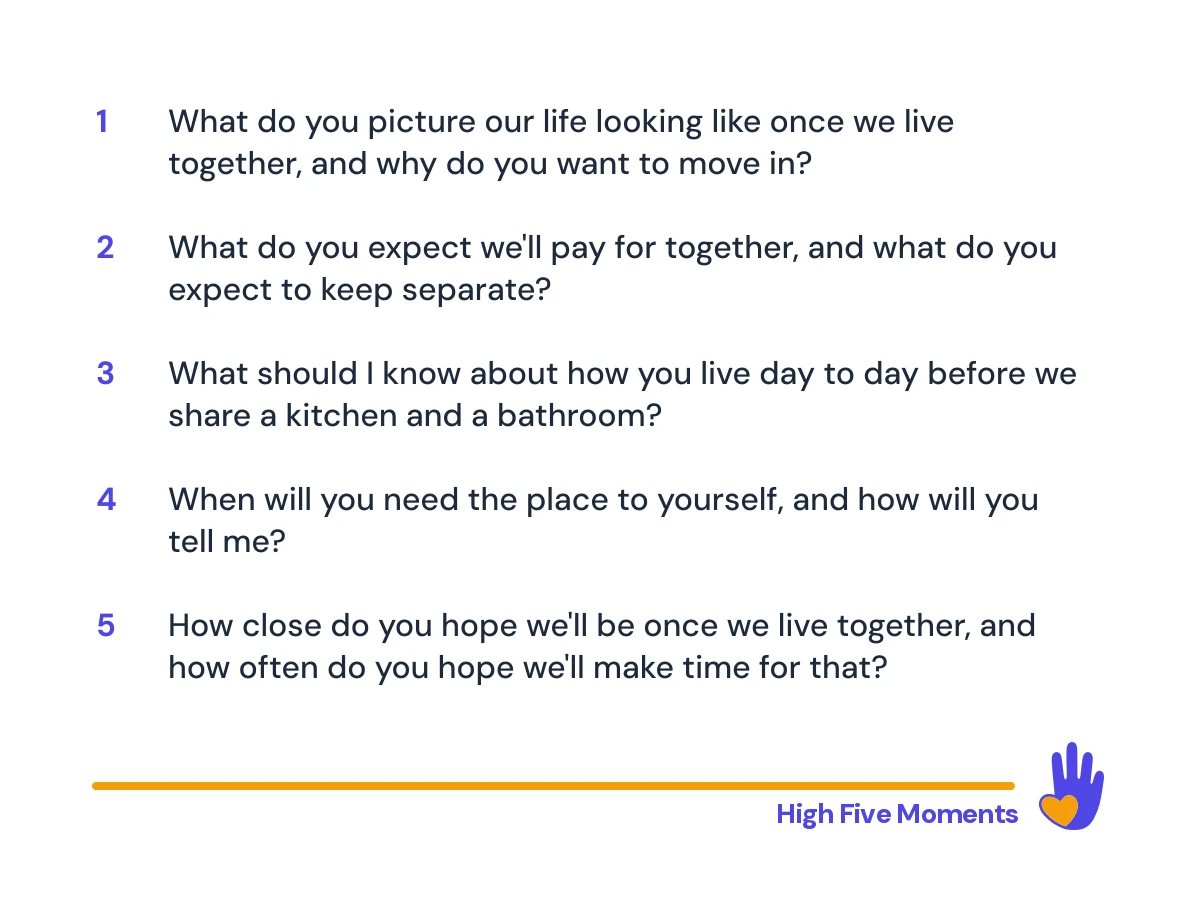
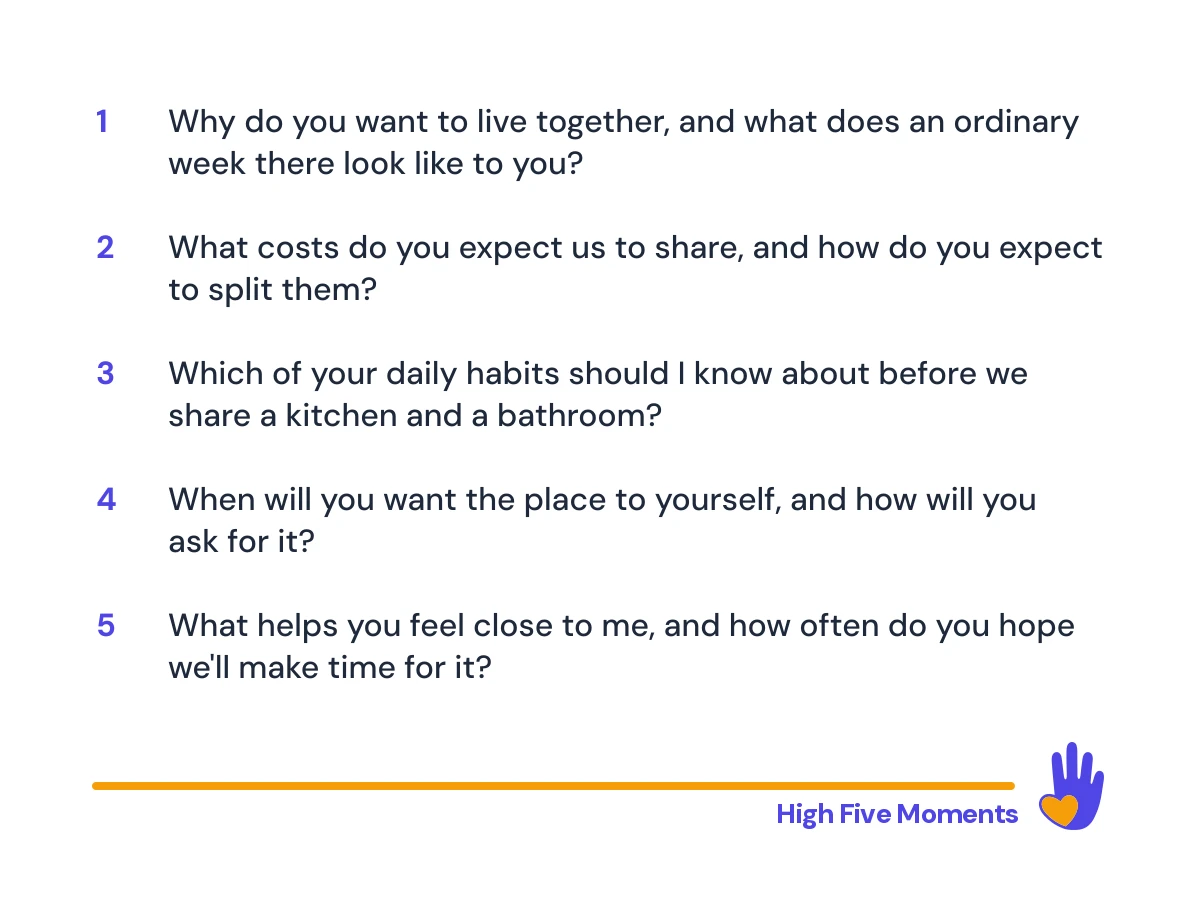
Refine moving-in-together blog article

diff --git a/src/lib/articles.ts b/src/lib/articles.ts
@@ -1,5 +1,6 @@
 import "server-only";
 
+import { createHash } from "node:crypto";
 import fs from "node:fs";
 import path from "node:path";
 import { cache } from "react";
@@ -165,6 +166,12 @@ function loadArticle(fileName: string): LoadedArticle {
 
   assertBodyImages(slug, parsed.content);
 
+  // A changed source image needs a new URL for cached responsive variants.
+  const heroVersion = createHash("sha256")
+    .update(fs.readFileSync(path.join(process.cwd(), "public", data.hero.src)))
+    .digest("hex")
+    .slice(0, 16);
+
   return {
     published: true,
     article: {
@@ -176,7 +183,7 @@ function loadArticle(fileName: string): LoadedArticle {
       updatedAt: data.updatedAt,
       payoffList: data.payoffList ?? false,
       hero: {
-        src: data.hero.src,
+        src: `${data.hero.src}?v=${heroVersion}`,
         alt: data.hero.alt,
         width: heroSize.width,
         height: heroSize.height,

diff --git a/src/app/blog/page.tsx b/src/app/blog/page.tsx
@@ -109,6 +109,7 @@ export default function BlogIndexPage() {
                         alt={article.hero.alt}
                         width={article.hero.width}
                         height={article.hero.height}
+                        unoptimized
                         sizes="(min-width: 768px) 288px, 100vw"
                         className="aspect-video w-full rounded-2xl object-cover"
                       />

diff --git a/src/app/blog/[slug]/page.tsx b/src/app/blog/[slug]/page.tsx
@@ -172,6 +172,7 @@ export default async function ArticlePage({ params }: ArticlePageProps) {
             width={article.hero.width}
             height={article.hero.height}
             priority
+            unoptimized
             sizes="(min-width: 768px) 768px, 100vw"
             className="mt-8 h-auto w-full rounded-2xl"
           />

diff --git a/content/articles/questions-to-ask-before-moving-in-together.md b/content/articles/questions-to-ask-before-moving-in-together.md
@@ -11,64 +11,66 @@ hero:
   alt: A couple talking through questions to ask before moving in together on the floor of a bright empty apartment.
 ---
 
-These are questions to ask before moving in together, about the life you're starting: money, daily habits, time alone, and what each of you expects from sharing a home. Both of you answer every question, and you stop when the questions are done. The moving in together advice that's easy to find already says to talk about money, daily habits, and time alone before you share a home. This page turns that into one conversation the two of you can finish, including what each of you expects that home to be.
+Before moving in together, talk about the life you each imagine sharing. These five questions cover what you want from the move, how you expect to share costs, and the habits and space that make a home comfortable for each of you. They also give you a chance to talk about what helps you feel close.
 
 ## What is this conversation for?
 
-This conversation is for the time just before you share a home, or the first days after, when you talk about the life you're starting together. You may each have a way of ending the day, and an idea of what home feels like, that the other person hasn't lived with yet. Everyday life is about to show where you expected different things. Say what you each expect now, while it's still easy.
+It's for saying out loud what each of you expects from sharing a home, so you hear it from each other instead of guessing. Most of those expectations have never needed words. When you lived apart, it didn't matter whether Sunday was for resting or for seeing family, or whether dishes left in the sink overnight bothered anyone. Under one roof, those things come up in ordinary moments, often when one of you is tired.
 
-In the 2020 Census, [about 8% of the U.S. household population, 26 million people, lived in cohabiting-couple households](https://www.census.gov/library/stories/2024/09/sdhc-coupled-households.html). The Census counts these separately from married-couple households: a partner sharing the home, rather than a spouse. That number describes who shares a home. It doesn't say what any couple should do, and it says nothing about how good those relationships are.
+Talking first won't stop every disagreement, and you'll still find things neither of you thought to mention. It gives you a starting point. When something comes up later, you can say "remember when we talked about evenings?" and pick it up as a topic you've already shared, instead of meeting it for the first time in the middle of a tense moment.
 
-## What should you ask before you move in?
+If you're the one who wants to start the conversation, you don't need to arrive with answers. Bringing the questions is enough.
 
-Start with what you each expect, then money, daily habits, and time alone, and end with closeness.
+## What should you ask each other?
+
+Start with the life you each imagine, and reword the questions so they sound like the two of you.
 
 ![The five questions to ask before moving in together, printed on a card.](/blog/questions-to-ask-before-moving-in-together/check-in-questions.webp)
 
-1. ### What do you picture our life looking like once we live together, and why do you want to move in?
+1. ### Why do you want to live together, and what does an ordinary week there look like to you?
 
-   Start with the picture each of you has in your head. One of you might imagine quiet evenings at home, and the other might imagine a place where friends come over often. Ask each other why you want to move in, and listen to the whole answer.
+   Your reasons shape a lot of small decisions. If one of you is moving in mostly to save on rent and the other sees it as the start of a shared future, a question like "should we buy a proper sofa?" means something different to each of you. Practical reasons are a normal part of the decision, so say them along with the romantic ones.
 
-   People give many reasons. A 2019 [Pew Research Center survey](https://www.pewresearch.org/social-trends/2019/11/06/marriage-and-cohabitation-in-the-u-s/) found that most married adults and adults living with a partner named love and companionship as major reasons for that decision. Among adults living with an unmarried partner, 38% said moving in made sense financially, 37% said it was convenient, and 23% said wanting to test the relationship was a major reason. These are reasons people gave, and they don't show what happened to the relationship later. Your own reasons may be a mix, and it helps to say all of them out loud, including the practical ones.
+   Then describe a normal week. One of you might picture quiet weeknights at home, and the other might picture friends over for dinner most Fridays. If one of you is moving into the other's current place, talk about how it can start to feel like home for both of you, like clearing real space in the closet or choosing something for the walls together.
 
-2. ### What do you expect we'll pay for together, and what do you expect to keep separate?
+2. ### What costs do you expect us to share, and how do you expect to split them?
 
-   One of you may assume rent and groceries get split equally, and the other may expect the person who earns more to pay a larger share. One of you might expect the household money to be shared, while the other wants to keep everything separate. Say what you expect, and say why.
+   One of you may assume rent and groceries get split equally, and the other may expect the person who earns more to pay a larger share. One of you might picture a shared pot for household costs, while the other wants to keep money mostly separate. Say what you expect and why. A wish to keep money separate might come from wanting independence or from something that happened before, and knowing which helps you both understand the answer.
 
-   You don't need to agree on numbers or set anything up tonight. Hearing each other's expectations is the point, so a bill doesn't reveal them for the first time.
+   You don't need to settle numbers in this conversation. Working them out is easier once you know what each of you expects, and hearing it now means the first shared bill isn't where you discover you had different ideas.
 
-3. ### What should I know about how you live day to day before we share a kitchen and a bathroom?
+3. ### Which of your daily habits should I know about before we share a kitchen and a bathroom?
 
-   Small habits feel bigger once you share a kitchen and a bathroom. Tell each other when you usually go to sleep and wake up, whether you like to watch something before bed, and how you feel about an alarm that goes off more than once. Talk about noise, like music while you cook, calls on speaker, or a TV playing in the background. Talk about guests, like how much notice you'd like before a friend stays the night.
+   You'll meet each other's routines many times a day, so it helps to know them and the reasons behind them. Talk about when you usually sleep and wake up, whether you set more than one alarm, and whether you like to watch something before bed. Talk about noise, like music while you cook or calls on speaker. Talk about guests, like how much notice you'd like before a friend stays over.
 
-   Then talk about what "tidy" means to each of you. For one person it's a clear counter and no dishes in the sink overnight. For the other it's a home that looks fine by the weekend. Neither is wrong. Saying it now means a pile of mail by the door is a habit you already know about, not a surprise later.
+   Then say what "tidy" means to you. For one person it's a clear counter and no dishes left overnight. For the other it's a place that looks fine by the weekend. Once you know what your partner prefers, a pile of mail by the door is something you can talk about, instead of assuming it means they don't care.
 
-4. ### When will you need the place to yourself, and how will you tell me?
+4. ### When will you want the place to yourself, and how will you ask for it?
 
-   Even people who love each other's company need time with the home to themselves. One of you might need the first hour after work to be quiet. The other might want a Saturday morning alone now and then. Say when you think you'll need that time, and agree on a simple way to ask for it.
+   Wanting time alone at home is normal, even when you love being together. In a shared home it's easy to misread. A closed door or a quiet evening can look like being upset when your partner just needs a rest from company. One of you might need the first hour after work to be quiet, and the other might want a Saturday morning alone now and then. Say when you think you'll need it.
 
-   It can be as plain as "I need an hour on my own tonight." When you've agreed on the words ahead of time, asking doesn't sound like a complaint, and hearing it doesn't feel like being pushed away.
+   Then agree on the words. Something as plain as "I need an hour on my own tonight" works. Agreeing on how to ask can make it easier to give each other space without guessing what it means.
 
-5. ### How close do you hope we'll be once we live together, and how often do you hope we'll make time for that?
+5. ### What helps you feel close to me, and how often do you hope we'll make time for it?
 
-   Closeness can mean sex, and it can also mean sitting together on the couch, going to bed at the same time, or a hug in the kitchen before work. Share what you hope for, and listen to what your partner hopes for too. This answer is a way to know each other better, and it isn't a score or a rule. Your hopes can change after you move in, and that's fine.
+   Living together can change how closeness happens. Seeing each other every day can feel close to one of you, while the other starts to miss evenings that were planned and felt special. Closeness can mean sex, and it can also mean going to bed at the same time, sitting together on the couch, or a hug in the kitchen before work. Share what you hope for, including how often, and listen to your partner's answer as a way to know them better. Hopes like these can change after you move in, so this is a good one to come back to.
 
-These five are a starting point, and you can reword them so they sound like the two of you. Tips for couples moving in together often run much longer, and this list is meant to finish in one evening.
+## How do you have the talk?
 
-## How do you finish the talk before the move?
+Pick a time when neither of you is rushed or tired, and a setting that feels easy. A long walk works well, because you're side by side and nobody has to hold eye contact the whole time. A kitchen table works too, with something to drink and your phones in another room.
 
-You finish by letting both people answer each question before you move to the next, and by stopping when the fifth one is done. If it goes quickly, that's a finished talk. Have it before you share the home, in one conversation, so it's done before the boxes arrive. If you've already moved in, have it this week, while the new habits are still easy to notice.
+Take turns going first, so one person isn't always the one who speaks first. Let each of you answer fully before you move on, and ask a follow-up when an answer surprises you. A good one is "what would an ordinary Tuesday look like for you?", because it turns a general preference into a picture you can both see.
 
-Pick a setting that feels easy. A long walk works well, because you're side by side and nobody has to hold eye contact the whole time. A kitchen table works too, with tea and your phones left in another room. Who goes first can swap from question to question, so one person isn't always the one who speaks first.
+If you've already moved in, the same questions still work, and you'll have real examples to talk about. If a question needs more thought, say so and agree on when you'll come back to it. The talk is worth having even if a few answers stay open for now.
 
-Once you've moved in, a regular look at how things are going is a different conversation. For that, you can use these [relationship check-in questions](/blog/relationship-check-in). That page is a look back at a life you're already sharing. This page is the talk before you share a home.
+## How do you keep it a conversation?
 
-## How do you keep the talk a conversation?
+Give both of you the same room to speak and the same patience to finish a thought. You're trying to understand how each of you wants to live, so answers work best as descriptions of what you need, instead of judgments about the other person.
 
-You keep it a conversation by giving both people the same room to speak, and the same time to finish a thought. Talk about what each of you expects. Leave out any talk of who does more.
+Shared work around the home is an easy place for this to slip. If you find yourselves adding up who did what when you stayed at each other's places, bring it back to the question in front of you: what would feel fair and comfortable to each of you in the home you're about to share. Rather than keeping a tally, talk about what each of you expects and how you might share the work.
 
-This conversation leaves out a chore score, a household budget, and a written cohabitation agreement. These questions also don't ask either of you to find a therapist.
+If you hear yourself starting a sentence with "you always" or "you never," pause and say what happened and what you'd like to change. Then ask your partner what would work better for them, and listen to their answer.
 
-If one of you says something the other didn't expect, ask what an ordinary Tuesday would look like. You're here to hear how each of you wants to live, so the home you share has room for both of you.
+Once you're living together, looking back now and then helps you both see how the shared life is going and what you'd like to change. These [relationship check-in questions](/blog/relationship-check-in) are made for that, at whatever interval suits the two of you.
 
 High Five Moments is a couples alignment app that's coming soon. You can join the waitlist below for development updates and early access.
